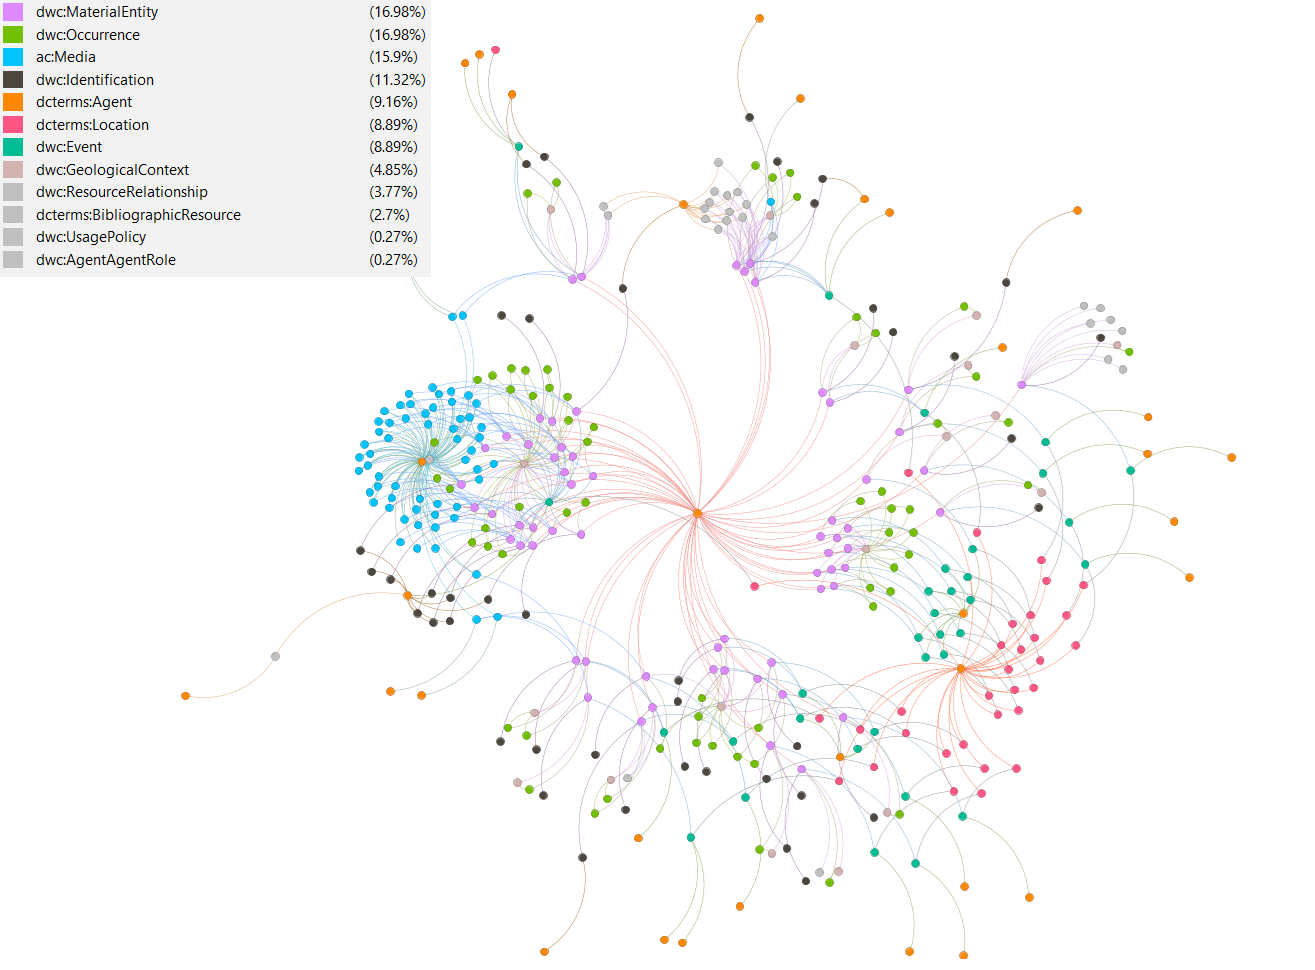
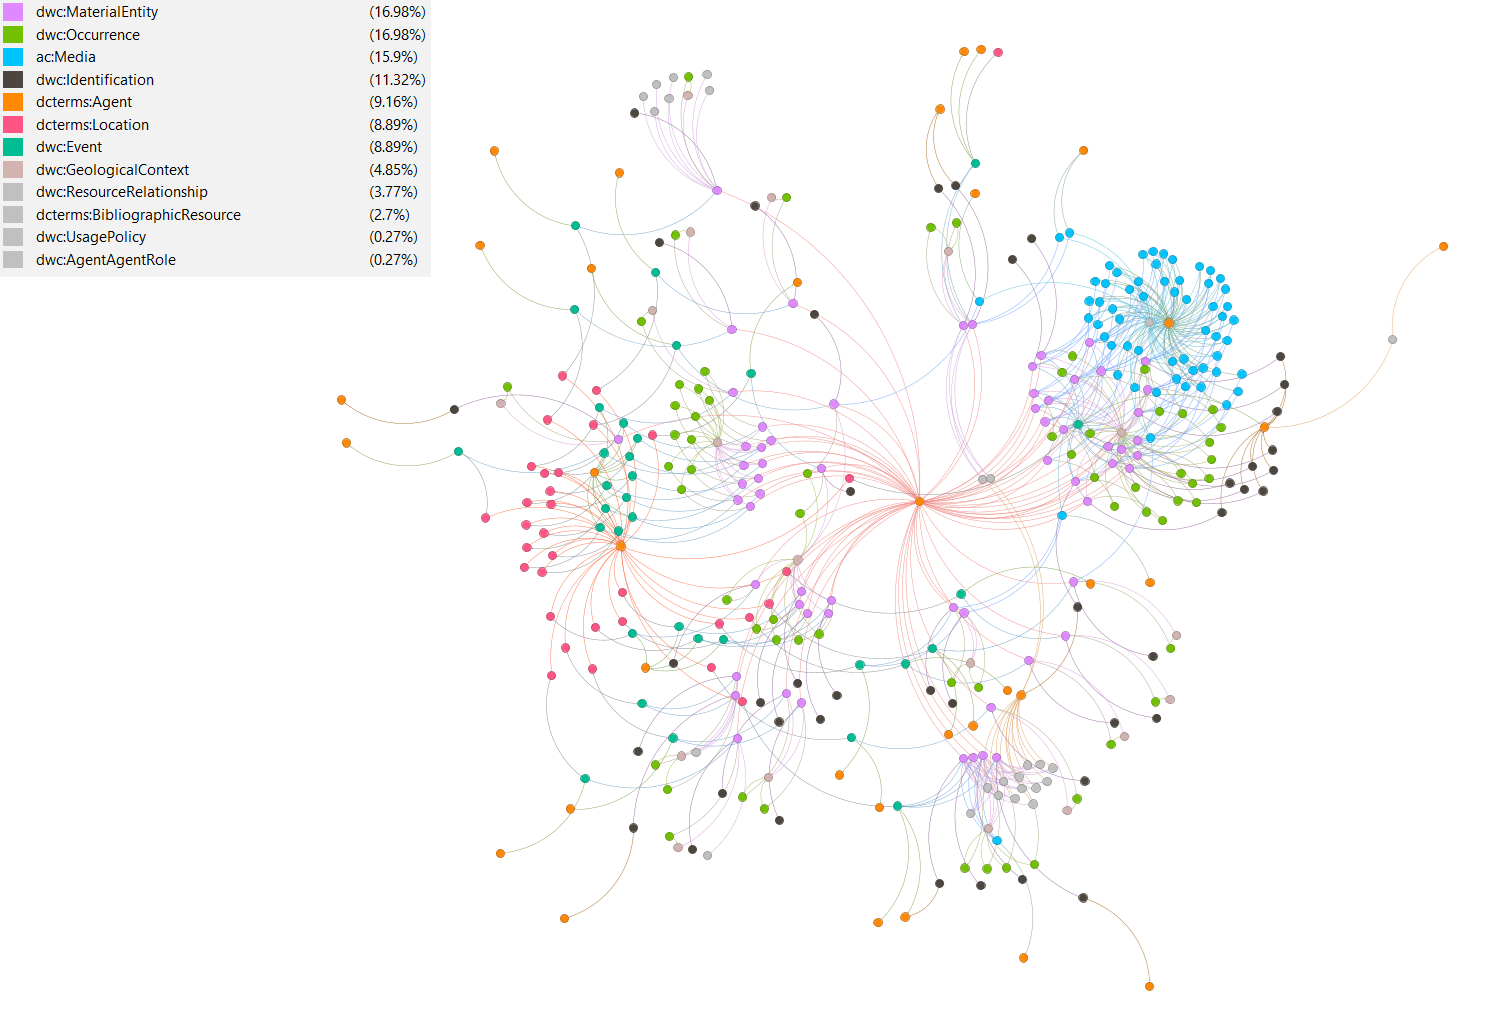
add nmnh fossil dataset text

diff --git a/README.md b/README.md
@@ -325,8 +325,7 @@ Each dataset will therefore be described according to the following structure:
 
 - **Dataset definition**: As part of SELVA's Migration Ecology research program to study the ecology of migratory birds across ten departments in Colombia, a set of mist nets were set up across Colombia to study wild birds. This study would enable a better understanding of bird patterns, especially at stopover sites and for key conservation species such as the cerulean warbler (*Setophaga cerulea*) and the blackpoll warbler (*Setophaga striata*). Between 2018 and 2023, a total of 5 581 birds were recorded, banded and had measurements taken before being released into the wild.
 
-- **Dataset organization**: The dataset can be downloaded [from GBIF](https://www.gbif.org/dataset/9407c83f-8690-4965-b4fb-48e8911d9430)
-The dataset contains the the standard `occurrence.txt` table that contains information about the bird occurrences and an `extendedmeasurementorfact.txt` table that contains information about the bird traits. In addition, it also includes a `permit.txt` file that contains information about a collecting permit that allowed for the project to take place.
+- **Dataset organization**: The dataset can be downloaded [from GBIF](https://www.gbif.org/dataset/9407c83f-8690-4965-b4fb-48e8911d9430). The dataset contains the the standard `occurrence.txt` table that contains information about the bird occurrences and an `extendedmeasurementorfact.txt` table that contains information about the bird traits. In addition, it also includes a `permit.txt` file that contains information about a collecting permit that allowed for the project to take place.
 
 - **Modelling considerations**: Each ringed bird was modelled as an individual `dwc:Organism`. The ring inscription was recorded as the organism’s identifier. Individual morphological and biometrical measurements (mass, wing length, etc.) were modelled as `dwc:Assertion` instances associated with the `dwc:Organism`. Taxonomic identifications were modelled using `dwc:Identification` which also targeted the individual.
 
@@ -862,6 +861,64 @@ As a starting point, the following SPARQL query returns all body masses in the d
 
   When comparing campaigns across communities, these classes provide a clean mechanism to relate each campaign to its sampled sites and to document methodological differences.
 
+### NMNH Paleobiology Specimen Records
+
+- **Dataset definition**: The Smithsonian National Museum of Natural History houses more than 139 000 specimens spanning a wide range of taxa, including animals, plants, and protists. Although the largest proportion of observations originate from the United States, the geographic scope of the collection is global. The collection includes information about fossil collection campaigns as well as media documenting the collected fossil material. The dataset used here is a subset specifically designed to highlight the distinctive modelling challenges associated with fossil specimens.
+
+- **Dataset organization**: The entire dataset can be downloaded [from GBIF](https://www.gbif.org/dataset/c8681cc2-9d0a-4c5f-b620-5c753abfe2bc). However, the current analysis is based on a smaller subset that was published on the test IPT. There are two versions of the subset, [Test A](https://dwcdp-ipt.gbif-test.org/resource?r=paleo-test-a) and [Test B](https://dwcdp-ipt.gbif-test.org/resource?r=paleo-test-a).
+
+  Both versions contain a varying amount of .csv files, based on the tables in the suggested DwC-DP SQL schema, 11 for Test A 14 for Test B. The RDF conversion considered here is mostly based on the Test A version, but has made various modifications.
+
+- **Modelling considerations**: Each fossil collection event was modelled as a `dwc:Event`, with the collected fossil material being collected as a `dwc:MaterialEntity`. Instances of `dcterms:Agent` were created to represent the people and organizations carrying out the various activities surrounding studies, including but not limited to collection, identification and digitization.
+
+  Identification of the fossil material, which is modeled as a `dwc:Identification` instance, allows the inference of an occurrence of the taxon. As for the other datasets, the material entity is evidence for the occurrence. However, contrary to other datasets, the occurrence cannot be linked back to the event through the usual `dwcdp:happenedDuring` object property because the nature of the event. Doing so would bring back the occurrence into present time and location, which is not the case.
+
+  Instead, both the material entity and the inferred occurrence are framed within the same geological context using `dwcdp:happenedWithin`. In other words, the occurrence and the material are within the same geological context, while only the material entity is associated with the collection event.
+
+- **Ontology subset considered**: As it is a fossil dataset, the considered ontology is centered around the `dwc:MaterialEntity` class. Indeed, it is what is collected during events, on which indentifications are based off of and the basis of evidence for an occurrence.
+
+  The dataset also requires the consideration of the `dwc:GeologicalContext` class, which provides geological information about the collected material and eventually an occurrence, if the material is identified. Therefore, the material entity and its possibly inferred occurrence can be framed within a geological context instance through the object property `dwcdp:happenedWithin`.
+
+![Ontology subset for the museum dataset](images/subset/museum-small.png)
+
+- **Additions made**: Most media associated with the specimens were released under public-domain terms (i.e. CC0). To represent this explicitly, a `dwc:UsagePolicy` instance was created and populated with the appropriate licensing information.
+
+- **Difficulties encountered**: The principal theoretical difficulty arises from the fact that inferred occurrences cannot be linked to events, as is usually done in other examples. Linking occurrences to events would imply that the organisms existed at the time and place of collection, which is not the case for fossil material.
+
+  The single entry in the `agent-agent-role.csv` table documents the employment period of the American geologist Ellen James Moore at the United States Geological Survey. This was modelled as an instance of `dwc:AgentAgentRole`, considered a subclass of `dwc:ResourceRelationship`. As discussed previously for the BROKE-West fish dataset, this represents an example of second type of application of this pattern, where it is used to state the nature and duration of a relationship between two `dcterms:Agent` instances.
+
+  Most identifiers in the `agents.csv` file are local identifiers provided without contextual resolution. Values such as `9EA07EEC` or `2E0FD7ED` cannot be interpreted as URIs. Similarly, identifiers like `USNM:PAR:10122764` appear to be internal museum identifiers rather than globally resolvable identifiers. Consequently, unless an identifier was explicitly provided as a URI, in this case a URL, agent resources were minted within a local dummy namespace.
+
+  Several additional issues were encountered at a more technical level:
+
+  1. The identification table lacks foreign keys. In a fossil dataset, a `dwc:materialEntityID` field linking identifications to the material on which they are based. No such field is present, requiring manual lookup of material records and their identifications via the Paleobiology website.
+
+  2. In four entries of the `material-media.csv` table and one entry of the `media.csv` table, the Name-to-Thing resolver is incorrectly written as http://n2t/net, preventing proper resolution and media download. In addition, one media entry appears twice in the `material-media.csv` table.
+
+  3. Three images are listed in the `media.csv` table but have no corresponding entries in the `material-media.csv` junction table. These were added back into the dataset.
+
+  4. The media format in the `media.csv` is listed as `tiff`, which is not a valid MIME type. Although the Paleobiology Collections website indicates also `image/tiff` for all image resources, all attempts to retrieve TIFF files resulted only in JPEG images. Accordingly, these entries were changed to `image/jpeg` in the conversion.
+
+  5. Three media items lack any usage statement. While this may reflect an omission, it is notable that all three correspond to specimen label images. During modelling, the `ac:Media` instances of these resources were not related to the `dwc:UsagePolicy` instance.
+
+  6. Some agents listed in the `agents.csv` table do not appear in any other table. Examination of the Paleobiology website showed that, for many of these, they were individuals that were credited with the creation of the images. Therefore, they were related to the corresponding image through the `dcterms:creator` object property.
+
+- **Graph-based representation**: At the center of the graph is the `dcterms:Agent` instance representing the National Museum of Natural History. All fossil specimens, modelled as `dwc:MaterialEntity` instances, are connected to it as it is the institution that owns them. Three additional agent-centric clusters are particularly notable:
+
+  - An agent node around which many `dcterms:Location` instances are connected. This node represents Curt Breckenridge, credited with performing most of the georeferencing.
+
+  - An agent node around which most `ac:Media` instances are connected. This node represents Pixel Acuity, credited as the creator of the majority of specimen images.
+
+  - An agent node around which many `dwc:Identification` instances are connected. This node again represents Ellen James Moore, who carried out several identifications in this dataset.
+
+  Material entities typically cluster around both a collection event and a geological context, reflecting the fact that material is extracted during a specific event from a particular geological stratum. As defined in the modelling section, both material entities and inferred occurrences are linked to geological contexts, while only material entities are linked to collection events.
+
+![Directed graph for the nmnh dataset](images/complete/museum-directed-graph.png)
+
+- **Lessons learned**: While most biodiversity datasets follow the convention that an occurrence happens during an event, fossil datasets represent a fundamental exception. In fossil studies, material entities and inferred occurrences are framed within geological timescales that are distinct from the modern collection events through which the material was obtained.
+
+  This distinction highlights the importance of clearly separating collection, evidence and inference activities in biodiversity data models. However, when correctly done, the data can be clearly interpreted with the intended meaning.
+
 ### Ryukyu Islands reef media
 
 - **Dataset definition**: Along the coral reefs of the Ryukyu Islands (Japan), the Global Oceanographic Data Center (GODAC) collected images and videos of marine organisms using a remotely operated underwater vehicle. Organisms visible in these media were later identified, and biological occurrence records were generated based on the geographic location at which each photograph or video was captured. Identifications were based on Japanese vernacular names and, when identifications required additional clarification, relevant taxonomic literature was consulted.
@@ -1090,13 +1147,6 @@ The Insektmobilen dataset produced an extremely high number of triples, due to i
 For the AMI dataset, none of `dcterms:Agents` were human, being either instruments or AI models. However, they allowed separation of the data into well-defined groups. Indeed, graphical representation of a subset produced showed that all captures done by Luna were on the left and those by Mothra were on the right. Both AI models used for image recognition and identification are in the center of the graph.
 
 ![Directed graph of the AMI dataset](images/ami-directed-graph.png)
-
-### NMNH paleobiology
-
-The NMNH paleobiology dataset, when expressed as a (somewhat) direct RDF translation of the relational tables in the DataPackage, produced a disconnected graph. The main graph is evident, with around it several subgraphs or even single nodes. Note that this is not an issue for RDF, as these resources are still queryable. Nonetheless, some additional relating of data, such as relating `dwc:Identification` to the `dwc:MaterialEntity` on which they are based would connect the isolated subgraphs to the main graph.
-
-![Directed graph of the NMNH paleobiology dataset](images/nmnh-directed-graph.png)
-
 
 ### Joseph Rock herbarium
 
